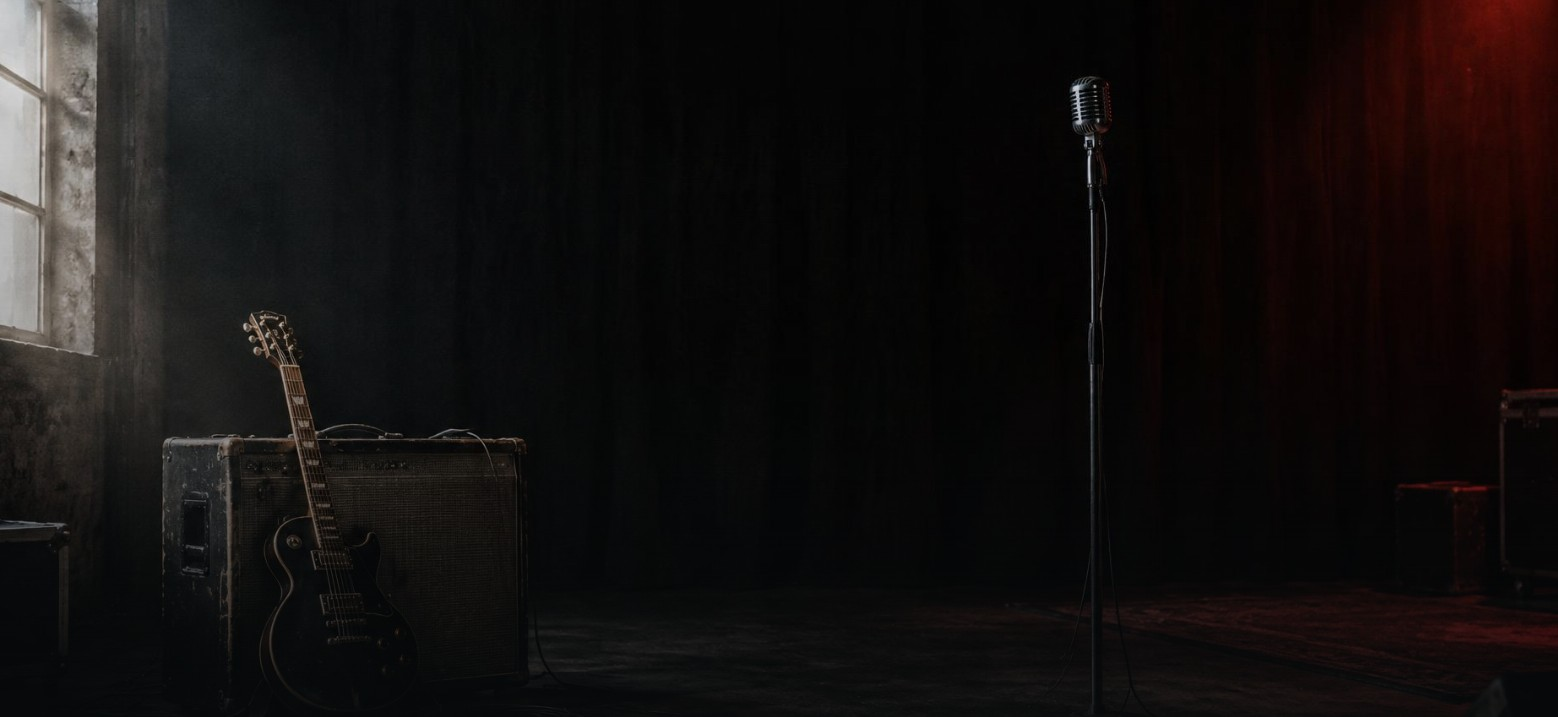
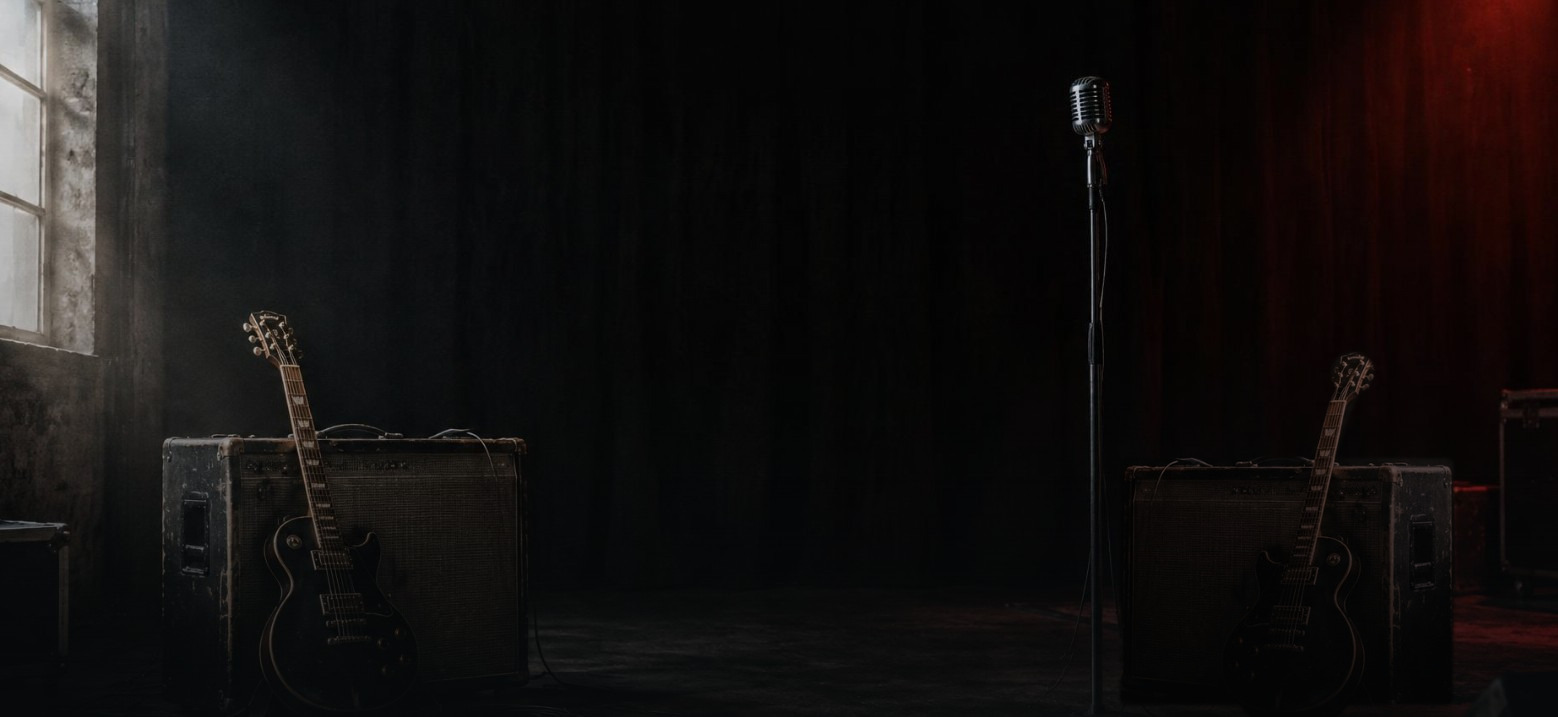
Fondo: duplica en espejo la guitarra con el ampli a la derecha (más oscuro) y reencuadra
Claude-Session: https://claude.ai/code/session_01Vc4tKa2CBnTkaq2fx6rxD5

diff --git a/css/site.css b/css/site.css
@@ -43,7 +43,7 @@ i{font-style:normal}
 
 /* ---------- HERO ---------- */
 .hero{position:relative;min-height:calc(100svh - 96px);display:flex;align-items:center;padding:120px 0 90px;overflow:hidden;isolation:isolate}
-.hero-bg{position:absolute;inset:-20px;z-index:-2;background:url(../images/escenario.jpg) var(--px) var(--py)/auto calc(100% * var(--z)) no-repeat;--px:56%;--py:72%;--z:1;will-change:transform;
+.hero-bg{position:absolute;inset:-20px;z-index:-2;background:url(../images/escenario.jpg) var(--px) var(--py)/auto calc(100% * var(--z)) no-repeat;--px:72%;--py:72%;--z:1;will-change:transform;
   /* movimiento casi imperceptible: --mx y --my (-1..1) los mueve el ratón (js/site.js). Sube/baja 6px y 3px para más/menos */
   transform:translate3d(calc(var(--mx,0) * -6px),calc(var(--my,0) * -3px),0) scale(1.03)}
 @media(min-aspect-ratio:21/10){.hero-bg{background-size:cover;--z:1}}
